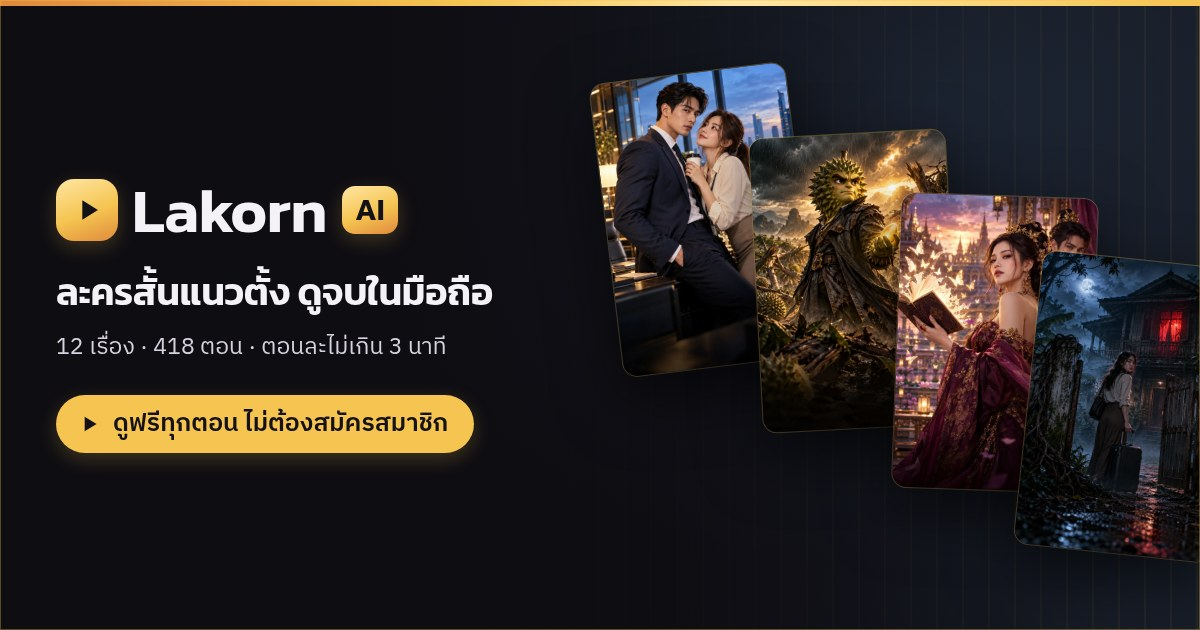
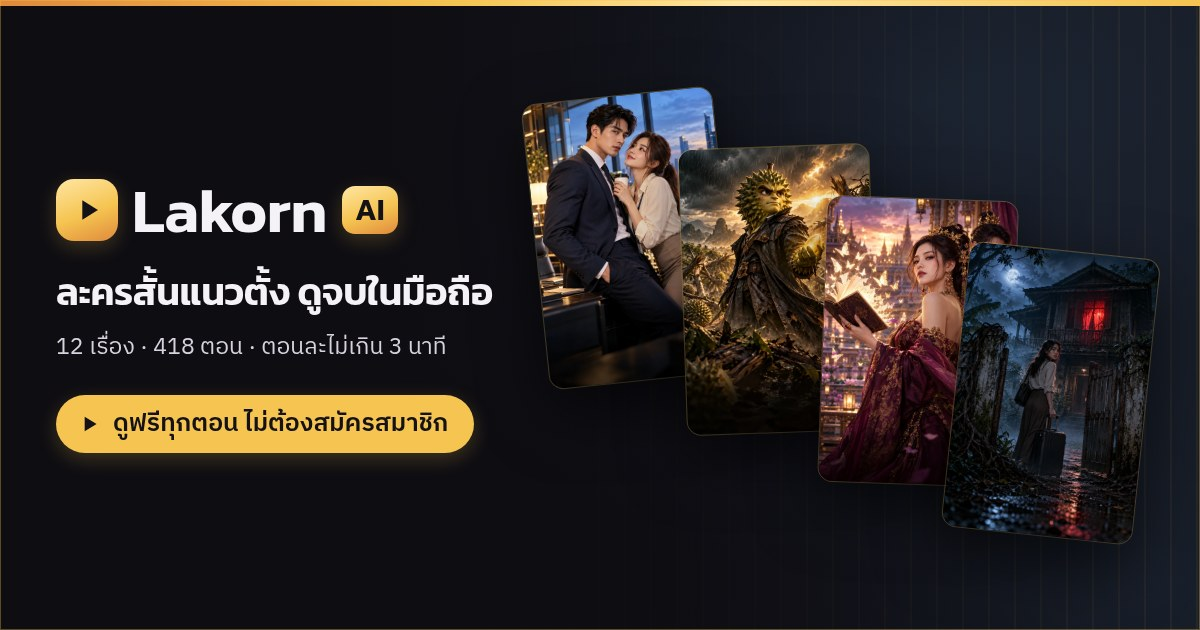
Visual: จัดฟานปกใน default.jpg ไม่ให้ถูกตัดขอบ + README ของ assets/share และ design/v2 ระบุวิธีสร้างซ้ำและกติกาภาพแชร์ (AIO-32)

Changed region(s): [[0.4317, 0.0905, 1.0, 0.9048]]

diff --git a/design/v2/share-src/default.html b/design/v2/share-src/default.html
@@ -82,16 +82,16 @@ h1{font-family:var(--display);font-weight:600;color:var(--fg);letter-spacing:-.5
 .hero h2{font-family:var(--display);font-weight:600;font-size:38px;line-height:1.3;
   letter-spacing:-.4px;margin-top:26px;color:var(--fg)}
 .hero .sub{font-size:23px;line-height:1.5;color:var(--fg-2);margin-top:14px}
-.fan{position:absolute;right:-34px;top:0;bottom:0;width:470px;display:flex;align-items:center;
-  justify-content:flex-end;gap:-10px}
-.fan .p{width:196px;height:294px;border-radius:var(--r-md);overflow:hidden;flex:none;
-  box-shadow:var(--e3), 0 0 0 1px var(--accent-line);margin-left:-56px;
+.fan{position:absolute;right:46px;top:0;bottom:0;width:470px;display:flex;align-items:center;
+  justify-content:flex-end}
+.fan .p{width:190px;height:285px;border-radius:var(--r-md);overflow:hidden;flex:none;
+  box-shadow:var(--e3), 0 0 0 1px var(--accent-line);margin-left:-50px;
   background:linear-gradient(165deg,var(--c2) 0%,var(--c1) 58%,var(--bg) 100%)}
 .fan .p img{width:100%;height:100%;object-fit:cover;display:block}
-.fan .p:nth-child(1){transform:rotate(-7deg) translateY(-96px)}
-.fan .p:nth-child(2){transform:rotate(-3deg) translateY(-34px)}
-.fan .p:nth-child(3){transform:rotate(2deg) translateY(28px)}
-.fan .p:nth-child(4){transform:rotate(6deg) translateY(92px)}
+.fan .p:nth-child(1){transform:rotate(-6deg) translateY(-78px)}
+.fan .p:nth-child(2){transform:rotate(-2deg) translateY(-26px)}
+.fan .p:nth-child(3){transform:rotate(2deg) translateY(26px)}
+.fan .p:nth-child(4){transform:rotate(6deg) translateY(78px)}
 </style>
 </head><body>
 <div class="card hero" style="--c1:#2A3D52;--c2:#3d5a7a">

diff --git a/design/v2/share-src/series-ayutthaya-love.html b/design/v2/share-src/series-ayutthaya-love.html
@@ -82,16 +82,16 @@ h1{font-family:var(--display);font-weight:600;color:var(--fg);letter-spacing:-.5
 .hero h2{font-family:var(--display);font-weight:600;font-size:38px;line-height:1.3;
   letter-spacing:-.4px;margin-top:26px;color:var(--fg)}
 .hero .sub{font-size:23px;line-height:1.5;color:var(--fg-2);margin-top:14px}
-.fan{position:absolute;right:-34px;top:0;bottom:0;width:470px;display:flex;align-items:center;
-  justify-content:flex-end;gap:-10px}
-.fan .p{width:196px;height:294px;border-radius:var(--r-md);overflow:hidden;flex:none;
-  box-shadow:var(--e3), 0 0 0 1px var(--accent-line);margin-left:-56px;
+.fan{position:absolute;right:46px;top:0;bottom:0;width:470px;display:flex;align-items:center;
+  justify-content:flex-end}
+.fan .p{width:190px;height:285px;border-radius:var(--r-md);overflow:hidden;flex:none;
+  box-shadow:var(--e3), 0 0 0 1px var(--accent-line);margin-left:-50px;
   background:linear-gradient(165deg,var(--c2) 0%,var(--c1) 58%,var(--bg) 100%)}
 .fan .p img{width:100%;height:100%;object-fit:cover;display:block}
-.fan .p:nth-child(1){transform:rotate(-7deg) translateY(-96px)}
-.fan .p:nth-child(2){transform:rotate(-3deg) translateY(-34px)}
-.fan .p:nth-child(3){transform:rotate(2deg) translateY(28px)}
-.fan .p:nth-child(4){transform:rotate(6deg) translateY(92px)}
+.fan .p:nth-child(1){transform:rotate(-6deg) translateY(-78px)}
+.fan .p:nth-child(2){transform:rotate(-2deg) translateY(-26px)}
+.fan .p:nth-child(3){transform:rotate(2deg) translateY(26px)}
+.fan .p:nth-child(4){transform:rotate(6deg) translateY(78px)}
 </style>
 </head><body>
 <div class="card " style="--c1:#2F3A2A;--c2:#4c5d2e">

diff --git a/design/v2/share-src/series-billion-widow.html b/design/v2/share-src/series-billion-widow.html
@@ -82,16 +82,16 @@ h1{font-family:var(--display);font-weight:600;color:var(--fg);letter-spacing:-.5
 .hero h2{font-family:var(--display);font-weight:600;font-size:38px;line-height:1.3;
   letter-spacing:-.4px;margin-top:26px;color:var(--fg)}
 .hero .sub{font-size:23px;line-height:1.5;color:var(--fg-2);margin-top:14px}
-.fan{position:absolute;right:-34px;top:0;bottom:0;width:470px;display:flex;align-items:center;
-  justify-content:flex-end;gap:-10px}
-.fan .p{width:196px;height:294px;border-radius:var(--r-md);overflow:hidden;flex:none;
-  box-shadow:var(--e3), 0 0 0 1px var(--accent-line);margin-left:-56px;
+.fan{position:absolute;right:46px;top:0;bottom:0;width:470px;display:flex;align-items:center;
+  justify-content:flex-end}
+.fan .p{width:190px;height:285px;border-radius:var(--r-md);overflow:hidden;flex:none;
+  box-shadow:var(--e3), 0 0 0 1px var(--accent-line);margin-left:-50px;
   background:linear-gradient(165deg,var(--c2) 0%,var(--c1) 58%,var(--bg) 100%)}
 .fan .p img{width:100%;height:100%;object-fit:cover;display:block}
-.fan .p:nth-child(1){transform:rotate(-7deg) translateY(-96px)}
-.fan .p:nth-child(2){transform:rotate(-3deg) translateY(-34px)}
-.fan .p:nth-child(3){transform:rotate(2deg) translateY(28px)}
-.fan .p:nth-child(4){transform:rotate(6deg) translateY(92px)}
+.fan .p:nth-child(1){transform:rotate(-6deg) translateY(-78px)}
+.fan .p:nth-child(2){transform:rotate(-2deg) translateY(-26px)}
+.fan .p:nth-child(3){transform:rotate(2deg) translateY(26px)}
+.fan .p:nth-child(4){transform:rotate(6deg) translateY(78px)}
 </style>
 </head><body>
 <div class="card " style="--c1:#45304F;--c2:#6b3f6e">

diff --git a/design/v2/share-src/series-ceo-cold.html b/design/v2/share-src/series-ceo-cold.html
@@ -82,16 +82,16 @@ h1{font-family:var(--display);font-weight:600;color:var(--fg);letter-spacing:-.5
 .hero h2{font-family:var(--display);font-weight:600;font-size:38px;line-height:1.3;
   letter-spacing:-.4px;margin-top:26px;color:var(--fg)}
 .hero .sub{font-size:23px;line-height:1.5;color:var(--fg-2);margin-top:14px}
-.fan{position:absolute;right:-34px;top:0;bottom:0;width:470px;display:flex;align-items:center;
-  justify-content:flex-end;gap:-10px}
-.fan .p{width:196px;height:294px;border-radius:var(--r-md);overflow:hidden;flex:none;
-  box-shadow:var(--e3), 0 0 0 1px var(--accent-line);margin-left:-56px;
+.fan{position:absolute;right:46px;top:0;bottom:0;width:470px;display:flex;align-items:center;
+  justify-content:flex-end}
+.fan .p{width:190px;height:285px;border-radius:var(--r-md);overflow:hidden;flex:none;
+  box-shadow:var(--e3), 0 0 0 1px var(--accent-line);margin-left:-50px;
   background:linear-gradient(165deg,var(--c2) 0%,var(--c1) 58%,var(--bg) 100%)}
 .fan .p img{width:100%;height:100%;object-fit:cover;display:block}
-.fan .p:nth-child(1){transform:rotate(-7deg) translateY(-96px)}
-.fan .p:nth-child(2){transform:rotate(-3deg) translateY(-34px)}
-.fan .p:nth-child(3){transform:rotate(2deg) translateY(28px)}
-.fan .p:nth-child(4){transform:rotate(6deg) translateY(92px)}
+.fan .p:nth-child(1){transform:rotate(-6deg) translateY(-78px)}
+.fan .p:nth-child(2){transform:rotate(-2deg) translateY(-26px)}
+.fan .p:nth-child(3){transform:rotate(2deg) translateY(26px)}
+.fan .p:nth-child(4){transform:rotate(6deg) translateY(78px)}
 </style>
 </head><body>
 <div class="card " style="--c1:#2A3D52;--c2:#3d5a7a">

diff --git a/design/v2/share-src/series-durian-revenge.html b/design/v2/share-src/series-durian-revenge.html
@@ -82,16 +82,16 @@ h1{font-family:var(--display);font-weight:600;color:var(--fg);letter-spacing:-.5
 .hero h2{font-family:var(--display);font-weight:600;font-size:38px;line-height:1.3;
   letter-spacing:-.4px;margin-top:26px;color:var(--fg)}
 .hero .sub{font-size:23px;line-height:1.5;color:var(--fg-2);margin-top:14px}
-.fan{position:absolute;right:-34px;top:0;bottom:0;width:470px;display:flex;align-items:center;
-  justify-content:flex-end;gap:-10px}
-.fan .p{width:196px;height:294px;border-radius:var(--r-md);overflow:hidden;flex:none;
-  box-shadow:var(--e3), 0 0 0 1px var(--accent-line);margin-left:-56px;
+.fan{position:absolute;right:46px;top:0;bottom:0;width:470px;display:flex;align-items:center;
+  justify-content:flex-end}
+.fan .p{width:190px;height:285px;border-radius:var(--r-md);overflow:hidden;flex:none;
+  box-shadow:var(--e3), 0 0 0 1px var(--accent-line);margin-left:-50px;
   background:linear-gradient(165deg,var(--c2) 0%,var(--c1) 58%,var(--bg) 100%)}
 .fan .p img{width:100%;height:100%;object-fit:cover;display:block}
-.fan .p:nth-child(1){transform:rotate(-7deg) translateY(-96px)}
-.fan .p:nth-child(2){transform:rotate(-3deg) translateY(-34px)}
-.fan .p:nth-child(3){transform:rotate(2deg) translateY(28px)}
-.fan .p:nth-child(4){transform:rotate(6deg) translateY(92px)}
+.fan .p:nth-child(1){transform:rotate(-6deg) translateY(-78px)}
+.fan .p:nth-child(2){transform:rotate(-2deg) translateY(-26px)}
+.fan .p:nth-child(3){transform:rotate(2deg) translateY(26px)}
+.fan .p:nth-child(4){transform:rotate(6deg) translateY(78px)}
 </style>
 </head><body>
 <div class="card " style="--c1:#4F452A;--c2:#7a6a2c">

diff --git a/design/v2/share-src/series-heir-returns.html b/design/v2/share-src/series-heir-returns.html
@@ -82,16 +82,16 @@ h1{font-family:var(--display);font-weight:600;color:var(--fg);letter-spacing:-.5
 .hero h2{font-family:var(--display);font-weight:600;font-size:38px;line-height:1.3;
   letter-spacing:-.4px;margin-top:26px;color:var(--fg)}
 .hero .sub{font-size:23px;line-height:1.5;color:var(--fg-2);margin-top:14px}
-.fan{position:absolute;right:-34px;top:0;bottom:0;width:470px;display:flex;align-items:center;
-  justify-content:flex-end;gap:-10px}
-.fan .p{width:196px;height:294px;border-radius:var(--r-md);overflow:hidden;flex:none;
-  box-shadow:var(--e3), 0 0 0 1px var(--accent-line);margin-left:-56px;
+.fan{position:absolute;right:46px;top:0;bottom:0;width:470px;display:flex;align-items:center;
+  justify-content:flex-end}
+.fan .p{width:190px;height:285px;border-radius:var(--r-md);overflow:hidden;flex:none;
+  box-shadow:var(--e3), 0 0 0 1px var(--accent-line);margin-left:-50px;
   background:linear-gradient(165deg,var(--c2) 0%,var(--c1) 58%,var(--bg) 100%)}
 .fan .p img{width:100%;height:100%;object-fit:cover;display:block}
-.fan .p:nth-child(1){transform:rotate(-7deg) translateY(-96px)}
-.fan .p:nth-child(2){transform:rotate(-3deg) translateY(-34px)}
-.fan .p:nth-child(3){transform:rotate(2deg) translateY(28px)}
-.fan .p:nth-child(4){transform:rotate(6deg) translateY(92px)}
+.fan .p:nth-child(1){transform:rotate(-6deg) translateY(-78px)}
+.fan .p:nth-child(2){transform:rotate(-2deg) translateY(-26px)}
+.fan .p:nth-child(3){transform:rotate(2deg) translateY(26px)}
+.fan .p:nth-child(4){transform:rotate(6deg) translateY(78px)}
 </style>
 </head><body>
 <div class="card " style="--c1:#40352A;--c2:#6b5434">

diff --git a/design/v2/share-src/series-house-13.html b/design/v2/share-src/series-house-13.html
@@ -82,16 +82,16 @@ h1{font-family:var(--display);font-weight:600;color:var(--fg);letter-spacing:-.5
 .hero h2{font-family:var(--display);font-weight:600;font-size:38px;line-height:1.3;
   letter-spacing:-.4px;margin-top:26px;color:var(--fg)}
 .hero .sub{font-size:23px;line-height:1.5;color:var(--fg-2);margin-top:14px}
-.fan{position:absolute;right:-34px;top:0;bottom:0;width:470px;display:flex;align-items:center;
-  justify-content:flex-end;gap:-10px}
-.fan .p{width:196px;height:294px;border-radius:var(--r-md);overflow:hidden;flex:none;
-  box-shadow:var(--e3), 0 0 0 1px var(--accent-line);margin-left:-56px;
+.fan{position:absolute;right:46px;top:0;bottom:0;width:470px;display:flex;align-items:center;
+  justify-content:flex-end}
+.fan .p{width:190px;height:285px;border-radius:var(--r-md);overflow:hidden;flex:none;
+  box-shadow:var(--e3), 0 0 0 1px var(--accent-line);margin-left:-50px;
   background:linear-gradient(165deg,var(--c2) 0%,var(--c1) 58%,var(--bg) 100%)}
 .fan .p img{width:100%;height:100%;object-fit:cover;display:block}
-.fan .p:nth-child(1){transform:rotate(-7deg) translateY(-96px)}
-.fan .p:nth-child(2){transform:rotate(-3deg) translateY(-34px)}
-.fan .p:nth-child(3){transform:rotate(2deg) translateY(28px)}
-.fan .p:nth-child(4){transform:rotate(6deg) translateY(92px)}
+.fan .p:nth-child(1){transform:rotate(-6deg) translateY(-78px)}
+.fan .p:nth-child(2){transform:rotate(-2deg) translateY(-26px)}
+.fan .p:nth-child(3){transform:rotate(2deg) translateY(26px)}
+.fan .p:nth-child(4){transform:rotate(6deg) translateY(78px)}
 </style>
 </head><body>
 <div class="card " style="--c1:#262A33;--c2:#3a3f52">

diff --git a/design/v2/share-src/series-mangosteen-heart.html b/design/v2/share-src/series-mangosteen-heart.html
@@ -82,16 +82,16 @@ h1{font-family:var(--display);font-weight:600;color:var(--fg);letter-spacing:-.5
 .hero h2{font-family:var(--display);font-weight:600;font-size:38px;line-height:1.3;
   letter-spacing:-.4px;margin-top:26px;color:var(--fg)}
 .hero .sub{font-size:23px;line-height:1.5;color:var(--fg-2);margin-top:14px}
-.fan{position:absolute;right:-34px;top:0;bottom:0;width:470px;display:flex;align-items:center;
-  justify-content:flex-end;gap:-10px}
-.fan .p{width:196px;height:294px;border-radius:var(--r-md);overflow:hidden;flex:none;
-  box-shadow:var(--e3), 0 0 0 1px var(--accent-line);margin-left:-56px;
+.fan{position:absolute;right:46px;top:0;bottom:0;width:470px;display:flex;align-items:center;
+  justify-content:flex-end}
+.fan .p{width:190px;height:285px;border-radius:var(--r-md);overflow:hidden;flex:none;
+  box-shadow:var(--e3), 0 0 0 1px var(--accent-line);margin-left:-50px;
   background:linear-gradient(165deg,var(--c2) 0%,var(--c1) 58%,var(--bg) 100%)}
 .fan .p img{width:100%;height:100%;object-fit:cover;display:block}
-.fan .p:nth-child(1){transform:rotate(-7deg) translateY(-96px)}
-.fan .p:nth-child(2){transform:rotate(-3deg) translateY(-34px)}
-.fan .p:nth-child(3){transform:rotate(2deg) translateY(28px)}
-.fan .p:nth-child(4){transform:rotate(6deg) translateY(92px)}
+.fan .p:nth-child(1){transform:rotate(-6deg) translateY(-78px)}
+.fan .p:nth-child(2){transform:rotate(-2deg) translateY(-26px)}
+.fan .p:nth-child(3){transform:rotate(2deg) translateY(26px)}
+.fan .p:nth-child(4){transform:rotate(6deg) translateY(78px)}
 </style>
 </head><body>
 <div class="card " style="--c1:#4a2a3f;--c2:#6e2f5c">

diff --git a/design/v2/share-src/series-mirror-bride.html b/design/v2/share-src/series-mirror-bride.html
@@ -82,16 +82,16 @@ h1{font-family:var(--display);font-weight:600;color:var(--fg);letter-spacing:-.5
 .hero h2{font-family:var(--display);font-weight:600;font-size:38px;line-height:1.3;
   letter-spacing:-.4px;margin-top:26px;color:var(--fg)}
 .hero .sub{font-size:23px;line-height:1.5;color:var(--fg-2);margin-top:14px}
-.fan{position:absolute;right:-34px;top:0;bottom:0;width:470px;display:flex;align-items:center;
-  justify-content:flex-end;gap:-10px}
-.fan .p{width:196px;height:294px;border-radius:var(--r-md);overflow:hidden;flex:none;
-  box-shadow:var(--e3), 0 0 0 1px var(--accent-line);margin-left:-56px;
+.fan{position:absolute;right:46px;top:0;bottom:0;width:470px;display:flex;align-items:center;
+  justify-content:flex-end}
+.fan .p{width:190px;height:285px;border-radius:var(--r-md);overflow:hidden;flex:none;
+  box-shadow:var(--e3), 0 0 0 1px var(--accent-line);margin-left:-50px;
   background:linear-gradient(165deg,var(--c2) 0%,var(--c1) 58%,var(--bg) 100%)}
 .fan .p img{width:100%;height:100%;object-fit:cover;display:block}
-.fan .p:nth-child(1){transform:rotate(-7deg) translateY(-96px)}
-.fan .p:nth-child(2){transform:rotate(-3deg) translateY(-34px)}
-.fan .p:nth-child(3){transform:rotate(2deg) translateY(28px)}
-.fan .p:nth-child(4){transform:rotate(6deg) translateY(92px)}
+.fan .p:nth-child(1){transform:rotate(-6deg) translateY(-78px)}
+.fan .p:nth-child(2){transform:rotate(-2deg) translateY(-26px)}
+.fan .p:nth-child(3){transform:rotate(2deg) translateY(26px)}
+.fan .p:nth-child(4){transform:rotate(6deg) translateY(78px)}
 </style>
 </head><body>
 <div class="card " style="--c1:#3A2626;--c2:#5c2f35">

diff --git a/design/v2/share-src/series-one-night-bangkok.html b/design/v2/share-src/series-one-night-bangkok.html
@@ -82,16 +82,16 @@ h1{font-family:var(--display);font-weight:600;color:var(--fg);letter-spacing:-.5
 .hero h2{font-family:var(--display);font-weight:600;font-size:38px;line-height:1.3;
   letter-spacing:-.4px;margin-top:26px;color:var(--fg)}
 .hero .sub{font-size:23px;line-height:1.5;color:var(--fg-2);margin-top:14px}
-.fan{position:absolute;right:-34px;top:0;bottom:0;width:470px;display:flex;align-items:center;
-  justify-content:flex-end;gap:-10px}
-.fan .p{width:196px;height:294px;border-radius:var(--r-md);overflow:hidden;flex:none;
-  box-shadow:var(--e3), 0 0 0 1px var(--accent-line);margin-left:-56px;
+.fan{position:absolute;right:46px;top:0;bottom:0;width:470px;display:flex;align-items:center;
+  justify-content:flex-end}
+.fan .p{width:190px;height:285px;border-radius:var(--r-md);overflow:hidden;flex:none;
+  box-shadow:var(--e3), 0 0 0 1px var(--accent-line);margin-left:-50px;
   background:linear-gradient(165deg,var(--c2) 0%,var(--c1) 58%,var(--bg) 100%)}
 .fan .p img{width:100%;height:100%;object-fit:cover;display:block}
-.fan .p:nth-child(1){transform:rotate(-7deg) translateY(-96px)}
-.fan .p:nth-child(2){transform:rotate(-3deg) translateY(-34px)}
-.fan .p:nth-child(3){transform:rotate(2deg) translateY(28px)}
-.fan .p:nth-child(4){transform:rotate(6deg) translateY(92px)}
+.fan .p:nth-child(1){transform:rotate(-6deg) translateY(-78px)}
+.fan .p:nth-child(2){transform:rotate(-2deg) translateY(-26px)}
+.fan .p:nth-child(3){transform:rotate(2deg) translateY(26px)}
+.fan .p:nth-child(4){transform:rotate(6deg) translateY(78px)}
 </style>
 </head><body>
 <div class="card " style="--c1:#2A3F4F;--c2:#2c5670">

diff --git a/design/v2/share-src/series-seedless-longan.html b/design/v2/share-src/series-seedless-longan.html
@@ -82,16 +82,16 @@ h1{font-family:var(--display);font-weight:600;color:var(--fg);letter-spacing:-.5
 .hero h2{font-family:var(--display);font-weight:600;font-size:38px;line-height:1.3;
   letter-spacing:-.4px;margin-top:26px;color:var(--fg)}
 .hero .sub{font-size:23px;line-height:1.5;color:var(--fg-2);margin-top:14px}
-.fan{position:absolute;right:-34px;top:0;bottom:0;width:470px;display:flex;align-items:center;
-  justify-content:flex-end;gap:-10px}
-.fan .p{width:196px;height:294px;border-radius:var(--r-md);overflow:hidden;flex:none;
-  box-shadow:var(--e3), 0 0 0 1px var(--accent-line);margin-left:-56px;
+.fan{position:absolute;right:46px;top:0;bottom:0;width:470px;display:flex;align-items:center;
+  justify-content:flex-end}
+.fan .p{width:190px;height:285px;border-radius:var(--r-md);overflow:hidden;flex:none;
+  box-shadow:var(--e3), 0 0 0 1px var(--accent-line);margin-left:-50px;
   background:linear-gradient(165deg,var(--c2) 0%,var(--c1) 58%,var(--bg) 100%)}
 .fan .p img{width:100%;height:100%;object-fit:cover;display:block}
-.fan .p:nth-child(1){transform:rotate(-7deg) translateY(-96px)}
-.fan .p:nth-child(2){transform:rotate(-3deg) translateY(-34px)}
-.fan .p:nth-child(3){transform:rotate(2deg) translateY(28px)}
-.fan .p:nth-child(4){transform:rotate(6deg) translateY(92px)}
+.fan .p:nth-child(1){transform:rotate(-6deg) translateY(-78px)}
+.fan .p:nth-child(2){transform:rotate(-2deg) translateY(-26px)}
+.fan .p:nth-child(3){transform:rotate(2deg) translateY(26px)}
+.fan .p:nth-child(4){transform:rotate(6deg) translateY(78px)}
 </style>
 </head><body>
 <div class="card " style="--c1:#4D3329;--c2:#7a4a2c">

diff --git a/design/v2/share-src/series-undercover-tycoon.html b/design/v2/share-src/series-undercover-tycoon.html
@@ -82,16 +82,16 @@ h1{font-family:var(--display);font-weight:600;color:var(--fg);letter-spacing:-.5
 .hero h2{font-family:var(--display);font-weight:600;font-size:38px;line-height:1.3;
   letter-spacing:-.4px;margin-top:26px;color:var(--fg)}
 .hero .sub{font-size:23px;line-height:1.5;color:var(--fg-2);margin-top:14px}
-.fan{position:absolute;right:-34px;top:0;bottom:0;width:470px;display:flex;align-items:center;
-  justify-content:flex-end;gap:-10px}
-.fan .p{width:196px;height:294px;border-radius:var(--r-md);overflow:hidden;flex:none;
-  box-shadow:var(--e3), 0 0 0 1px var(--accent-line);margin-left:-56px;
+.fan{position:absolute;right:46px;top:0;bottom:0;width:470px;display:flex;align-items:center;
+  justify-content:flex-end}
+.fan .p{width:190px;height:285px;border-radius:var(--r-md);overflow:hidden;flex:none;
+  box-shadow:var(--e3), 0 0 0 1px var(--accent-line);margin-left:-50px;
   background:linear-gradient(165deg,var(--c2) 0%,var(--c1) 58%,var(--bg) 100%)}
 .fan .p img{width:100%;height:100%;object-fit:cover;display:block}
-.fan .p:nth-child(1){transform:rotate(-7deg) translateY(-96px)}
-.fan .p:nth-child(2){transform:rotate(-3deg) translateY(-34px)}
-.fan .p:nth-child(3){transform:rotate(2deg) translateY(28px)}
-.fan .p:nth-child(4){transform:rotate(6deg) translateY(92px)}
+.fan .p:nth-child(1){transform:rotate(-6deg) translateY(-78px)}
+.fan .p:nth-child(2){transform:rotate(-2deg) translateY(-26px)}
+.fan .p:nth-child(3){transform:rotate(2deg) translateY(26px)}
+.fan .p:nth-child(4){transform:rotate(6deg) translateY(78px)}
 </style>
 </head><body>
 <div class="card " style="--c1:#2E4A3B;--c2:#2f6b4e">
